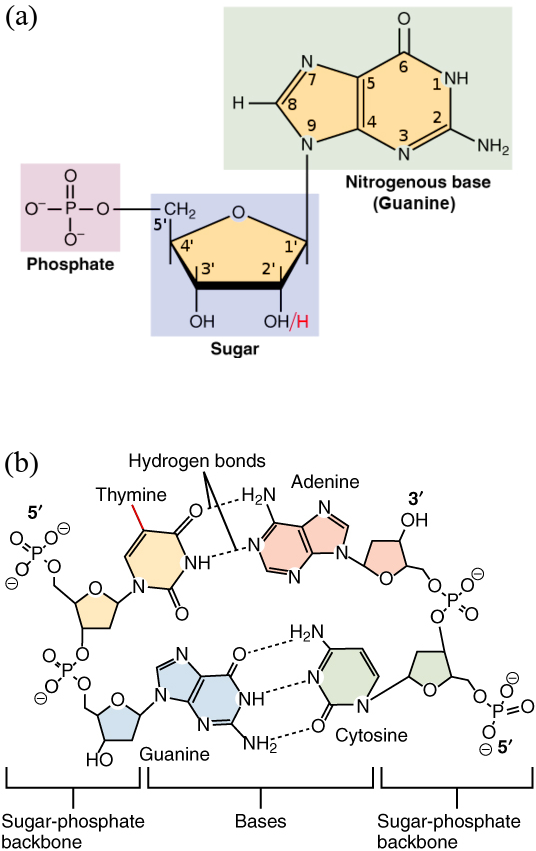
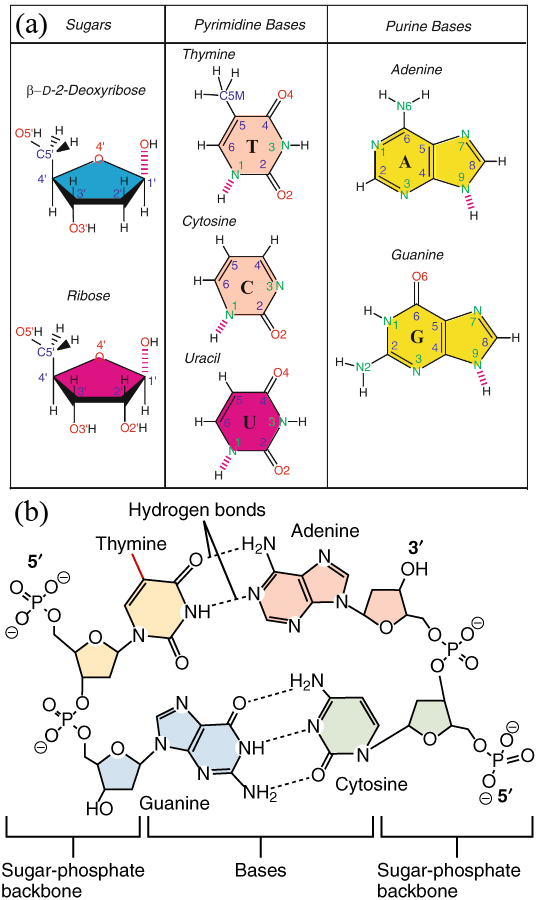
Fix some issues with the first lessons

diff --git a/all_atom.md b/all_atom.md
@@ -104,6 +104,7 @@ $$
 \vec{f}(\vec r) = - \vec \nabla V_\text{LJ}.
 $$
 
+(sec:cut-off)=
 ### Interaction cut-off
 
 :::{important} The range of the interaction
@@ -510,26 +511,28 @@ TODO
 (sec:neighbour_lists)=
 ### Neighbour lists
 
-If the interaction cutoff is rc , it would be wasteful to calculate distances between all pairs of particles, as only a
-fraction of them will be within interaction radius. The most widely used techniques of keeping track of particles
-which are close enough to possibly interact are Verlet lists and cell lists.
-A Verlet lists stores for each particle a list of particles which are at a distance smaller than rc + rs , where
-rs is called the ”skin distance“. When calculating forces acting on a particle, only interactions with particles
-stored in its Verlet list are considered. All lists need to be updated when any particle moves a distance larger
-than rs from its original position when lists were last updated. The value of rs has to be carefully optimized:
-too small rs will result in very frequent updates, while large values will result in too many particles kept in each
-list.
-Cell lists partition the simulation box into smaller boxes, called cells, with side length set to rc . Each cell
-stores a list of particles inside it. For a given particle, we only consider interactions with particles inside its own
-cell and its neighboring cells (8 in 2D and 26 in 3D). When a particle moves, we check whether it has moved
-into a different cell, in which case we remove it from its old cell’s list and add it to the particle list in the new
-cell.
-Verlet lists and cell lists can be combined: When regenerating Verlet lists, we can only consider inclusion
-of particles in neighboring cells. The evaluation time for calculating interactions between N particles with cell
-lists scales as O(N ), while Verlet lists method scales as O(N 2 ). Combining both removes the N 2 dependence of
-the Verlet list scheme. The optimal choice, however, depends on the particular system and simulation method.
-Verlet lists are well suited for MD simulations, where particle displacement per time step is small. In MC
-simulations, which can allow large translation moves, it may be preferable to use cell lists alone.
+If the interaction potential is short-ranged, in the sense that it goes to zero at some distance $r_c$, it is clear that particles that are further away than $r_c$ will not feel any reciprocal force. If this is the case, calculating distances between all pairs of particles would be wasteful, as only a
+fraction of pairs will feel a mutual interaction. There are several techniques that can be used to optimise the force calculation step (and therefore the simulation performance) by performing some kind of bookkeeping that makes it possible to evaluate only those contributions due to pairs that are "close enough" to each other. Here I will present the most common ones: cells and Verlet lists.
+
+The idea behind cell lists is to partition the simulation box into smaller boxes, called cells, with side lengths $\geq r_c$[^cubic_cells]. This partitioning is done by using a data structure that, for each cell, stores the list of particles that are inside it. Then, during the force calculation loop, we consider that particle $i$, which is in cell $c$, can interact only with particles that are either inside $c$ or in one of its neighbouring cells (8 in 2D and 26 in 3D). The cell data structure can either be built every step, or updated after each integration step. In this latter case, the code checks whether a particle has crossed a cell boundary, and in this case it removes the particle from the old cell and adds it to the new one. This can be done efficiently with [linked lists](https://en.wikipedia.org/wiki/Linked_list). With this technique, each particle has a number of possibly-interacting neighbours that depends only on particle density and cell size, and therefore is independent on $N$. As a result, the algorithmic complexity of the simulation is $\mathcal{O}(N)$ rather than $\mathcal{O}(N^2)$. 
+
+Differently from cell lists, in Verlet lists for each particle the code stores a list of particles that are within a certain distance $r_v = r_c + r_s$, where $r_s$ is a free parameter called "Verlet skin". Every time the lists are updated, the current position of each particle $i$, $\vec r_{i, 0}$ is also stored. During the force calculation step of particle $i$, only those particles that are in $i$'s Verlet list are considered. For a homogeneous system of density $\rho$, the average number if neighbours is
+
+$$
+N_v = \frac{4}{3} \pi r_v^3 \rho,
+$$
+
+which should be compared to the average number of neighbours if cell lists are used, which in three dimensions is
+
+$$
+N_c = 27 r_c^3 \rho.
+$$
+
+In the limit $r_s \ll r_c$, which is rather common, $r_v \approx r_c$, so that $N_c / N_v = 81 / 4 \pi \approx 6$, which means that if Verlet lists are used, the number of distances to be checked is six times smaller than with cell lists.
+
+Verlet lists do not have to be updated at every step, or we would go back to checking all pairs, but only when when any particle has moved a distance larger than $r_s / 2$ from its original position $\vec r_{i, 0}$. Note that the overall performance will depend on the value of $r_s$, as small values will result in very frequent updates, while large values will generate large lists, which means useless distance checks on particles that are too far away to interact. Although the average number of neighbours of each particle $i$ is independent on $N$ and therefore the actual force calculation is $\mathcal{O}(N)$, the overall algorithmic complexity is still $\mathcal{O}(N^2)$, since list updating, even if not done at each time step, requires looping over all pairs. To overcome this problem it is common to use cell lists to build Verlet lists, bringing the complexity of the list update step, and therefore of the whole simulation, down to $\mathcal{O}(N)$, while at the same time retaining the smaller average number of neighbours of Verlet lists.
+
+[^cubic_cells]: In principle, cells don't have to be cubic.
 
 
 ### Long-range interactions

diff --git a/introduction.md b/introduction.md
@@ -239,13 +239,13 @@ where $\vec R_\text{cm} = \frac{1}{N} \sum_{j = 1}^N \vec R_j$ is the position o
 
 \begin{align}
 \vec R_g^2 & = \frac{1}{N^2} \sum_{i = 1}^N \sum_{j = 1}^N (\vec R_i^2 - \vec R_i \cdot \vec R_j) = \frac{1}{2N}  \sum_{i = 1}^N \sum_{j = 1}^N (\vec R_i - \vec R_j)^2 \\
-& = \frac{1}{N}  \sum_{i = 1}^N \sum_{j = 1}^N (\vec R_i - \vec R_j)^2,
+& = \frac{1}{N}  \sum_{i = 1}^N \sum_{j > i}^N (\vec R_i - \vec R_j)^2,
 \end{align}
 
 where we have first completed the square of the binomial by duplicating the double sum (hence the factor of 2 at the denominator), and then run the inner sum on monomers having index $j > i$, so that each pair of monomers only enters once in the double sum. The associated ensemble average is then
 
 $$
-\langle \vec R_g^2 \rangle = \frac{1}{N} \sum_{i = 1}^N \sum_{j = 1}^N \langle (\vec R_i - \vec R_j)^2 \rangle.
+\langle \vec R_g^2 \rangle = \frac{1}{N} \sum_{i = 1}^N \sum_{j > i}^N \langle (\vec R_i - \vec R_j)^2 \rangle.
 $$ (eq:rg)
 
 The radius of gyration and end-to-end distance are closely related. For instance, for a freely-jointed chain, it can be demonstrated that 
@@ -294,6 +294,14 @@ The structure of DNA allows the strands to be easily separated for the purpose o
 DNA polymerases attach to each of the strands at the origin of replication, reading each existing strand from the 3' to 5' direction and placing down complementary bases such that the new strand grows in the 5' to 3' direction. Because polymerases build the chains from 5' to 3', one strand (the leading strand) can be copied continuously, while the other (the lagging strand) grows in pieces which are later glued together by another enzyme, DNA ligase. The end result is 2 double-stranded pieces of DNA, where each is composed of one old strand, and one new strand; for this reason, DNA replication is a semiconservative process.
 
 Many organisms have their DNA split into several chromosomes. Each chromosome contains two strands of DNA, which are complementary to each other but are read in opposite directions. Genes can occur on either strand of DNA. The DNA before a gene (in the 5' region) is considered "upstream", whereas the DNA after a gene (in the 3' region) is considered "downstream".
+
+```{figure} figures/genome_sizes.png
+:name: fig:genome_sizes
+:align: center
+:width: 700
+
+Genome size ranges (in base pairs) of various life forms. Credits to [Abizar via Wikipedia Commons](https://commons.wikimedia.org/wiki/File:Genome_Sizes.png).
+```
 
 [^GC_pairing]: For this reason, the genetic composition of bacteria that live in hot springs is $80\%$ G-C.
 [^enzyme]: An enzyme is a protein that speeds up a specific biochemical reaction.
@@ -444,7 +452,7 @@ Despite the enormous variety of methods and applications, there are some common 
 * **Bridging Theory and Experiment:** Historically known as "computer experiments", computer simulations sit in the middle between theory and experiment. As such, a good computational physicist is able to act as a bridge between these two worlds. A proficient computational physicist can effectively bridge these two realms, provided he develops a familiarity with the specific jargon, techniques, and methodologies of both fields. This dual expertise is a significant advantage. However, it is sometimes hard to find a fit in a dichotomic world, where "theory or experiment" is all there is. Fortunately, that world is dying (but has not died yet).
 * **Algorithmic Problem Solving:** Problem-solving is a critical skill for any physicist, often involving the application of algorithmic reasoning to find solutions. For computational physicists, the ability to think in terms of algorithms is even more crucial. Developing this skill enables them to tackle complex problems systematically and effectively. During the course I will present many algorithms used to tackle some specific (bio)physical problem. Most of the time there will be an accompanying pseudo-code or real code, but in [some cases](#sec:homeworks) you will be asked to do it yourself.
 
-Just to brush up your programming skill, I will start with presenting a programming technique that will be applied later to some biophysical problems. However, before doing that, let's brush up our Python skills with [this notebook](./notebooks/Python_crash_course.ipynb).
+To get thing started, I will present a programming technique that will be applied later to some biophysical problems. However, before doing that, let's brush up our Python skills with [this notebook](./notebooks/Python_crash_course.ipynb).
 
 ## Dynamic programming
 

diff --git a/nucleic_acids.md b/nucleic_acids.md
@@ -19,12 +19,8 @@ Deoxyribonucleic acid (DNA) and ribonucleic acid (RNA) are the fundamental molec
 :align: center
 :width: 500px
 
-(a) The different parts that make up a nucleotide, which is an RNA or DNA nucleotide depending on whether the bottom-right group of the sugar is a hydroxyl or a hydrogen, respectively. Here the nitrogenous base is a guanine, and the picture also shows the labeling of the sugar and base atoms. (b) A sketch showing two bonded DNA dinucleotides. The presence of a $-CH_3$ group connected to the pyrimidine ring highlighted in red makes the yellow-shaded base a thymine instead of a uracil. Adapted from [here](https://commons.wikimedia.org/wiki/File:0322_DNA_Nucleotides_Numbered.jpg).
+(a) The sugar and nitrogenous bases that make up DNA and RNA. Non-hydrogen atoms are labelled, and the broken lines indicate links that bind the compound to the other building blocks. Adapted from @schlick2010molecular. (b) A sketch showing two bonded DNA dinucleotides. The presence of a $-CH_3$ group connected to the pyrimidine ring highlighted in red makes the yellow-shaded base a thymine instead of a uracil. Adapted from [here](https://commons.wikimedia.org/wiki/File:0322_DNA_Nucleotides_Numbered.jpg).
 ```
-
-:::{warning} TODO
-Substitute panel (a) with Fig 5.2 from Schlick's book
-:::
 
 In the classic DNA double helix (or *duplex*) described by [Watson and Crick](doi:10.1038/171737a0), a flexible ladder-like structure is formed by two chains (strands) that wrap around a virtual central axis. The two chains' backbones consist of alternating sugar and phosphate units, while the rungs that connect them consist of nitrogenous bases held together by hydrogen bonds and stabilised by stacking interactions. A schematic of a single nucleotide and of the Watson-Crick mechanism are shown in [](#fig:DNA_schematics).
 
